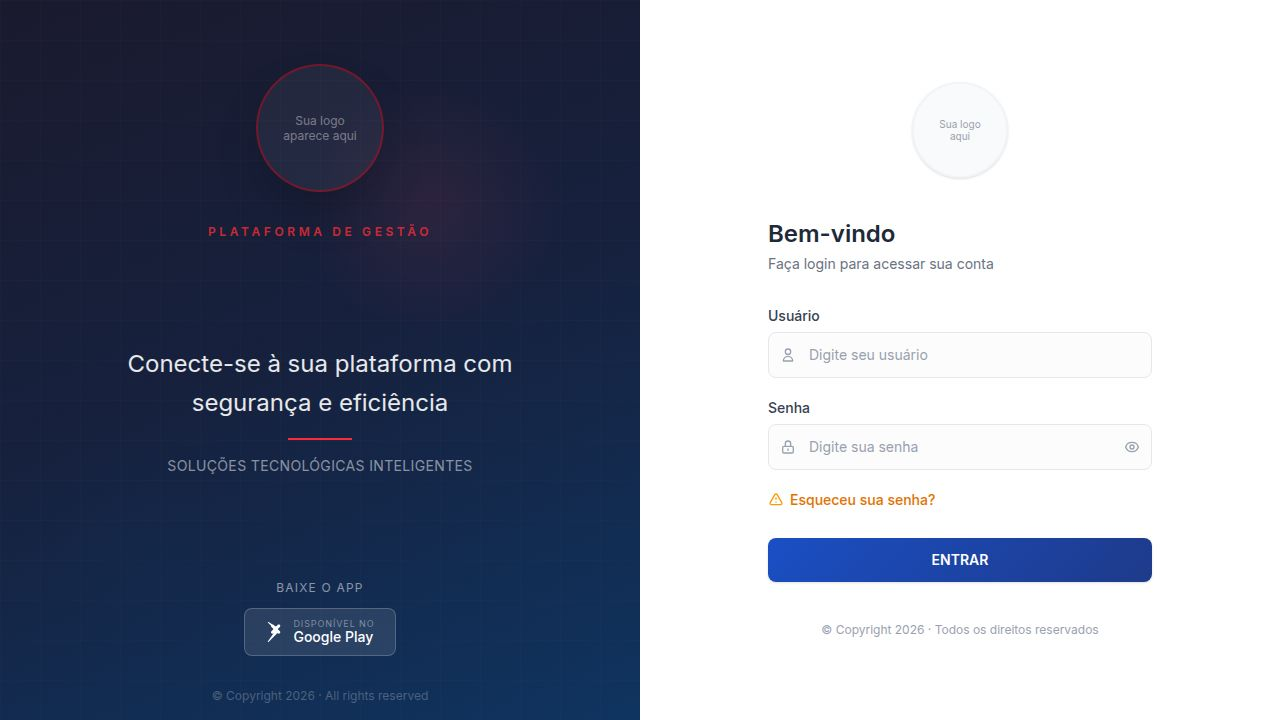
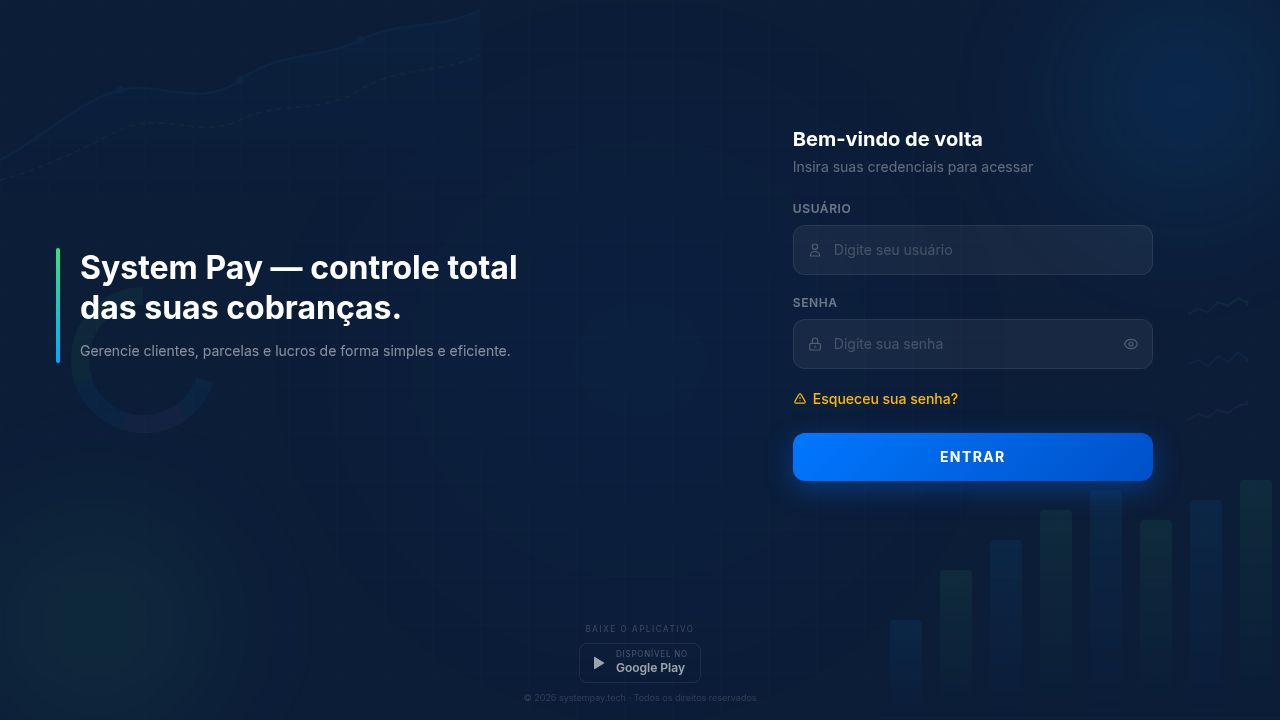
Make 3D pie charts more upright and visually appealing
Replaces recharts PieChart component with a custom 3D PieChart implementation in `dashboard.tsx`, adjusting `ry` and `cy` for better visual proportions and label spacing. Removes unused recharts imports.

Replit-Commit-Author: Agent
Replit-Commit-Session-Id: 2d9b1101-a9b6-4de5-b658-dd274665daa2
Replit-Commit-Checkpoint-Type: full_checkpoint
Replit-Commit-Event-Id: 1027e499-8824-470f-b0ee-706965b5e3c4
Replit-Commit-Screenshot-Url: https://storage.googleapis.com/screenshot-production-us-central1/5f6ad066-6588-47ca-890a-637788c3fe00/2d9b1101-a9b6-4de5-b658-dd274665daa2/ebBVyrH
Replit-Helium-Checkpoint-Created: true

diff --git a/artifacts/web-platform/src/pages/dashboard.tsx b/artifacts/web-platform/src/pages/dashboard.tsx
@@ -125,6 +125,93 @@ const ingresosPieData = [
   { name: "Outro (3780)", value: 3780, color: "#444" },
 ];
 
+// ── 3D Pie Chart ─────────────────────────────────────────────────────────────
+
+function expandHex(hex: string) {
+  hex = hex.replace("#", "");
+  if (hex.length === 3) hex = hex.split("").map(c => c + c).join("");
+  return "#" + hex;
+}
+function darkenColor(hex: string, f = 0.35) {
+  hex = expandHex(hex);
+  const n = parseInt(hex.slice(1), 16);
+  const r = Math.max(0, Math.round(((n >> 16) & 255) * (1 - f)));
+  const g = Math.max(0, Math.round(((n >> 8) & 255) * (1 - f)));
+  const b = Math.max(0, Math.round((n & 255) * (1 - f)));
+  return `rgb(${r},${g},${b})`;
+}
+
+function Pie3DChart({ data }: { data: { name: string; value: number; color: string }[] }) {
+  const W = 400, H = 300;
+  const cx = 185, cy = 138;
+  const rx = 112, ry = 68, depth = 22;
+
+  const total = data.reduce((s, d) => s + d.value, 0);
+  let cum = -Math.PI / 2;
+  const slices = data.map(d => {
+    const a1 = cum;
+    const sweep = (d.value / total) * 2 * Math.PI;
+    cum += sweep;
+    const a2 = cum;
+    return { ...d, a1, a2, mid: (a1 + a2) / 2 };
+  });
+
+  const T = (a: number): [number, number] => [cx + rx * Math.cos(a), cy + ry * Math.sin(a)];
+  const B = (a: number): [number, number] => [cx + rx * Math.cos(a), cy + depth + ry * Math.sin(a)];
+
+  const topPath = (a1: number, a2: number) => {
+    const [x1, y1] = T(a1), [x2, y2] = T(a2);
+    const large = a2 - a1 > Math.PI ? 1 : 0;
+    return `M ${cx},${cy} L ${x1},${y1} A ${rx},${ry} 0 ${large} 1 ${x2},${y2} Z`;
+  };
+  const wallPath = (a1: number, a2: number) => {
+    const [tx1, ty1] = T(a1), [tx2, ty2] = T(a2);
+    const [bx1, by1] = B(a1), [bx2, by2] = B(a2);
+    const large = a2 - a1 > Math.PI ? 1 : 0;
+    return `M ${tx1},${ty1} A ${rx},${ry} 0 ${large} 1 ${tx2},${ty2} L ${bx2},${by2} A ${rx},${ry} 0 ${large} 0 ${bx1},${by1} Z`;
+  };
+  const frontParts = (a1: number, a2: number): [number, number][] => {
+    const res: [number, number][] = [];
+    const s = Math.max(a1, 0), e = Math.min(a2, Math.PI);
+    if (s < e) res.push([s, e]);
+    return res;
+  };
+
+  const sorted = [...slices].sort((a, b) => Math.sin(a.mid) - Math.sin(b.mid));
+
+  return (
+    <svg viewBox={`0 0 ${W} ${H}`} width="100%" height="100%" style={{ overflow: "visible" }}>
+      {/* Outer walls (back to front) */}
+      {sorted.map((s, i) =>
+        frontParts(s.a1, s.a2).map(([ps, pe], j) => (
+          <path key={`w${i}${j}`} d={wallPath(ps, pe)} fill={darkenColor(s.color)} />
+        ))
+      )}
+      {/* Top faces (back to front) */}
+      {sorted.map((s, i) => (
+        <path key={`t${i}`} d={topPath(s.a1, s.a2)} fill={s.color} stroke="#fff" strokeWidth={1.5} />
+      ))}
+      {/* Labels with connector lines */}
+      {slices.map((s, i) => {
+        const [ex, ey] = T(s.mid);
+        const lx = cx + (rx + 30) * Math.cos(s.mid);
+        const ly = cy + (ry + 16) * Math.sin(s.mid);
+        const anchor = Math.cos(s.mid) >= 0 ? "start" : "end";
+        const tx = lx + (Math.cos(s.mid) >= 0 ? 4 : -4);
+        return (
+          <g key={`l${i}`}>
+            <line x1={ex} y1={ey} x2={lx} y2={ly} stroke="#bbb" strokeWidth={0.8} />
+            <text x={tx} y={ly} textAnchor={anchor} dominantBaseline="middle"
+              fontSize={9} fontWeight="bold" fill="#333">
+              {s.name}
+            </text>
+          </g>
+        );
+      })}
+    </svg>
+  );
+}
+
 // ── 3D Grid background ────────────────────────────────────────────────────────
 
 const CHART_DEPTH = 10;
@@ -277,65 +364,11 @@ function DesempenhoContent() {
       <div className="flex min-h-0" style={{ flex: 1, gap: 16 }}>
 
         <ChartCard subtitle="Gastos por Concepto 2026" year="2026">
-          <ResponsiveContainer width="100%" height="100%">
-            <PieChart>
-              <Pie
-                data={gastosPieData}
-                cx="50%"
-                cy="50%"
-                outerRadius="45%"
-                dataKey="value"
-                label={({ cx, cy, midAngle, outerRadius, index }) => {
-                  const RADIAN = Math.PI / 180;
-                  const r = (outerRadius as number) + 22;
-                  const x = (cx as number) + r * Math.cos(-midAngle * RADIAN);
-                  const y = (cy as number) + r * Math.sin(-midAngle * RADIAN);
-                  return (
-                    <text x={x} y={y} textAnchor={x > (cx as number) ? "start" : "end"} dominantBaseline="central" fontSize={9} fill="#444">
-                      {gastosPieData[index].name}
-                    </text>
-                  );
-                }}
-                labelLine={{ stroke: "#ccc", strokeWidth: 1 }}
-              >
-                {gastosPieData.map((entry, i) => (
-                  <Cell key={i} fill={entry.color} stroke="#fff" strokeWidth={1} />
-                ))}
-              </Pie>
-              <Tooltip contentStyle={{ fontSize: 11 }} formatter={(v: number) => `$ ${v.toLocaleString("pt-BR")}`} />
-            </PieChart>
-          </ResponsiveContainer>
+          <Pie3DChart data={gastosPieData} />
         </ChartCard>
 
         <ChartCard subtitle="Ingresos por Concepto 2026" year="2026">
-          <ResponsiveContainer width="100%" height="100%">
-            <PieChart>
-              <Pie
-                data={ingresosPieData}
-                cx="50%"
-                cy="50%"
-                outerRadius="45%"
-                dataKey="value"
-                label={({ cx, cy, midAngle, outerRadius, index }) => {
-                  const RADIAN = Math.PI / 180;
-                  const r = (outerRadius as number) + 22;
-                  const x = (cx as number) + r * Math.cos(-midAngle * RADIAN);
-                  const y = (cy as number) + r * Math.sin(-midAngle * RADIAN);
-                  return (
-                    <text x={x} y={y} textAnchor={x > (cx as number) ? "start" : "end"} dominantBaseline="central" fontSize={9} fill="#444">
-                      {ingresosPieData[index].name}
-                    </text>
-                  );
-                }}
-                labelLine={{ stroke: "#ccc", strokeWidth: 1 }}
-              >
-                {ingresosPieData.map((entry, i) => (
-                  <Cell key={i} fill={entry.color} stroke="#fff" strokeWidth={1} />
-                ))}
-              </Pie>
-              <Tooltip contentStyle={{ fontSize: 11 }} formatter={(v: number) => `$ ${v.toLocaleString("pt-BR")}`} />
-            </PieChart>
-          </ResponsiveContainer>
+          <Pie3DChart data={ingresosPieData} />
         </ChartCard>
 
         {/* Empty third column */}